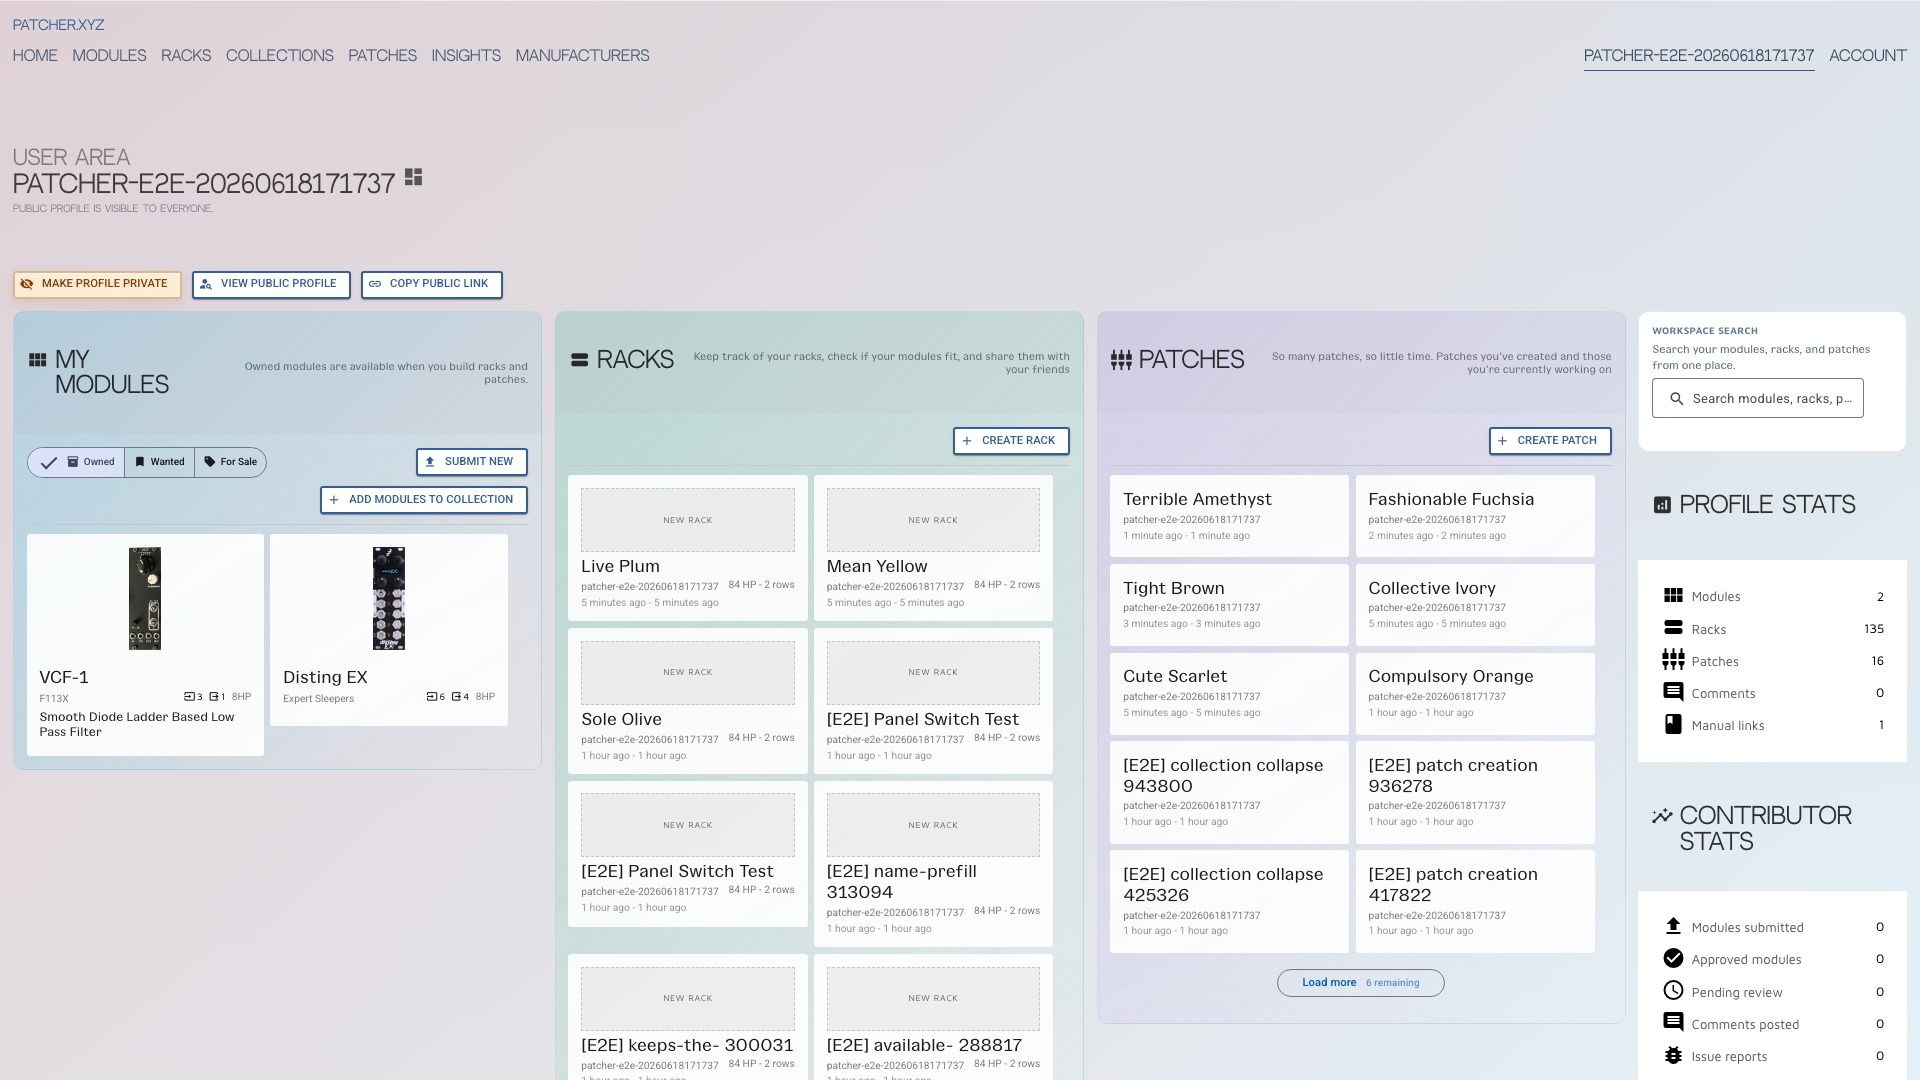
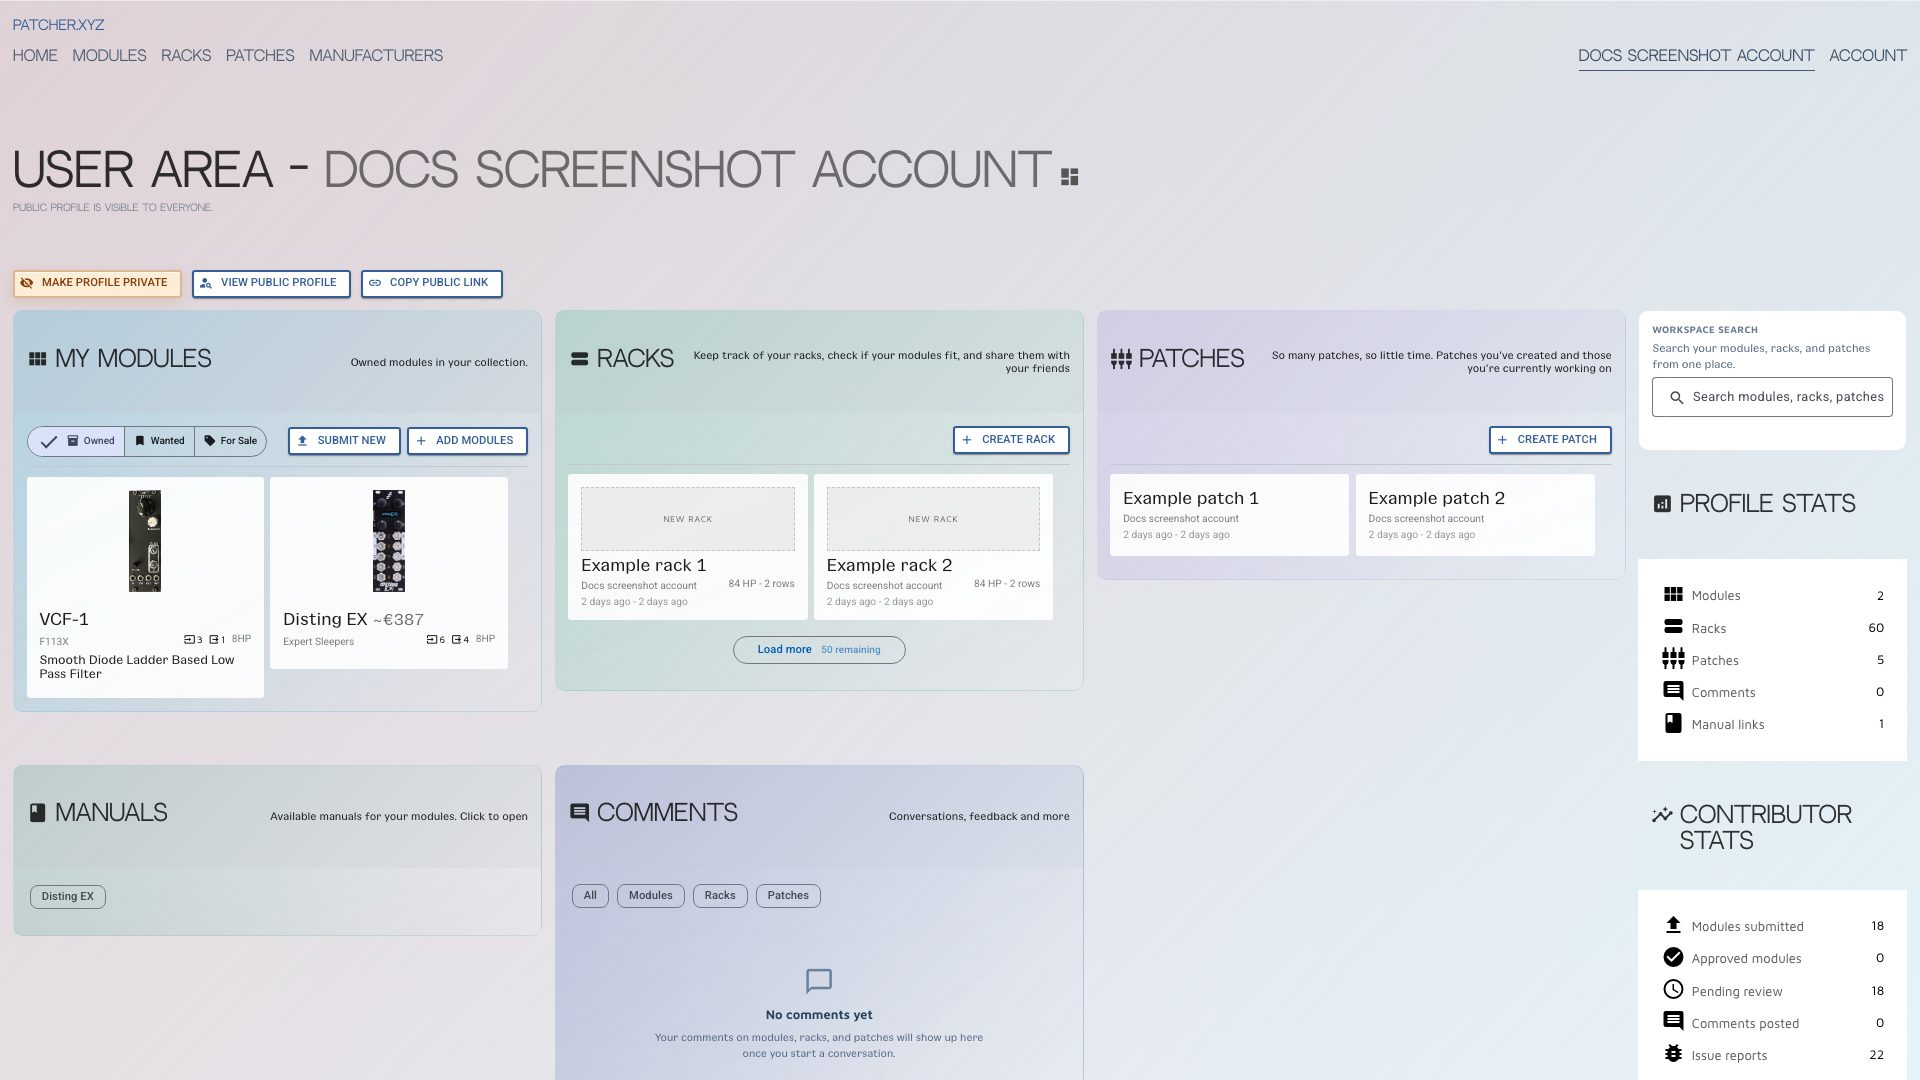
fix(e2e): repair user-area docs screenshot sanitisation bugs
- fixture-retention visibility checks now walk the ancestor chain since
  hide attributes can land on a wrapper (lib-clean-card) rather than the
  card element, which previously misjudged real non-fixture cards as hidden
- readCurrentAccountLabel now targets the correct app-wide-shell-toolbar
  tag (app-toolbar does not exist) and reads the scoped .title-sub span
  instead of the polluted whole-h1 text
- validateUserArea heading check now matches the live hyphen/whitespace
  layout via a locator instead of getByRole name matching, and residual
  [E2E]/patcher-e2e- checks use countVisibleTextMatches so hidden fixture
  DOM nodes (already display:none) are not treated as leaks

user-area capture now passes end-to-end and was manually reviewed.

(cherry picked from commit 682fe06ee575b6385a39a9686c50dff9f6ba3934)

diff --git a/e2e/screenshots/sanitisation.util.ts b/e2e/screenshots/sanitisation.util.ts
@@ -176,19 +176,40 @@ export async function applyDocsScreenshotSanitisation(
       }
     };
 
+    // The fixture-hide loops above may set config.hideAttribute on an
+    // ancestor wrapper (e.g. lib-clean-card) rather than on the card element
+    // itself, since `.closest(fixtureHideSelector)` can match a wrapper that
+    // appears earlier in the same querySelectorAll pass. Detecting "is this
+    // card hidden" must therefore walk the same self-to-container chain that
+    // unhideChain uses to remove the attribute, not just check the card
+    // element directly.
+    const isHiddenInChain = (start: Element, container: Element): boolean => {
+      let node: Element | null = start;
+      while (node) {
+        if (node.hasAttribute(config.hideAttribute)) {
+          return true;
+        }
+        if (node === container) {
+          break;
+        }
+        node = node.parentElement;
+      }
+      return false;
+    };
+
     for (const section of config.fixtureRetention) {
       const maxCards = section.maxCards ?? 2;
       for (const container of document.querySelectorAll(section.containerSelector)) {
         const cards = Array.from(container.querySelectorAll(section.cardSelector));
         const hasNonFixtureVisibleCard = cards.some(
-          card => isVisible(card) && !card.hasAttribute(config.hideAttribute)
+          card => isVisible(card) && !isHiddenInChain(card, container)
         );
         if (hasNonFixtureVisibleCard) {
           continue;
         }
 
         const retainedCards = cards
-          .filter(card => card.hasAttribute(config.hideAttribute))
+          .filter(card => isHiddenInChain(card, container))
           .slice(0, maxCards);
 
         retainedCards.forEach((card, index) => {
@@ -232,9 +253,20 @@ export async function applyDocsScreenshotSanitisation(
 
 async function readCurrentAccountLabel(page: Page): Promise<string | null> {
   return page.evaluate(() => {
-    const navLabel = document.querySelector('app-toolbar a[href$="/user/area"]')?.textContent?.trim();
+    const navLabel = document.querySelector('app-wide-shell-toolbar a[href$="/user/area"]')?.textContent?.trim();
     if (navLabel) {
       return navLabel;
+    }
+
+    // The "User area" heading renders its username in a dedicated
+    // `.title-sub` span, but the enclosing <h1> also contains the page
+    // icon ligature text and (when public) an inline description, so
+    // reading textContent off the whole h1 pulls in unrelated text.
+    // Prefer the scoped span; only fall back to whole-heading parsing
+    // (best-effort, may include trailing unrelated text) if it's absent.
+    const titleSub = document.querySelector('h1 .title-sub')?.textContent?.trim();
+    if (titleSub) {
+      return titleSub;
     }
 
     const heading = Array.from(document.querySelectorAll('h1'))

diff --git a/e2e/screenshots/auth-major-area-screenshots.spec.ts b/e2e/screenshots/auth-major-area-screenshots.spec.ts
@@ -566,8 +566,15 @@ async function validateUserArea(page: Page): Promise<void> {
     );
   }
 
-  await expect(page.getByRole('heading', {name: /USER AREA — Docs screenshot account/i}).first()).toBeVisible({timeout: 10_000});
-  await expect(page.locator('text=/\\[E2E\\]/i')).toHaveCount(0);
+  await expect(page.locator('h1', {hasText: /USER AREA\s*-\s*Docs screenshot account/i}).first()).toBeVisible({timeout: 10_000});
+  await expect.poll(
+    () => countVisibleTextMatches(page, /patcher-e2e-/i),
+    {timeout: 10_000}
+  ).toBe(0);
+  await expect.poll(
+    () => countVisibleTextMatches(page, /\[E2E\]/i),
+    {timeout: 10_000}
+  ).toBe(0);
 }
 
 async function prepareAccount(page: Page): Promise<void> {

diff --git a/internaldocs/workflow/plans/docs-screenshot-pipeline-repair.md b/internaldocs/workflow/plans/docs-screenshot-pipeline-repair.md
@@ -47,6 +47,14 @@ Repair the in-repo Patcher docs screenshot pipeline so the seven docs-facing cap
 - 2026-07-23 — Capture unblock: After credentials were populated, the first gate exposed two runner bugs before images could be produced: `generate-env.js` needed the repo's existing non-secret Patcher Supabase URL default when `.env` supplies only the anon key, and Playwright target selection needed config-owned `testMatch` plus `.*captures <title>$` grep because explicit file paths and fully anchored titles found zero tests.
 - 2026-07-23 — Home gate hardening: Removed the home screenshot helper's production-incompatible `window.ng` component mutation/readiness path. The gate now waits on the production-rendered home hero `lib-graph` DOM and writes a blocked marker if the existing production default content cannot render a connected graph.
 - 2026-07-23 — Patch-details fallback: Coordinator approved a no-mutation fallback for gate 3. The selector now keeps owned rich patches as first preference, then deterministically selects an existing public patch with `public=true`, `public_id IS NOT NULL`, at least 1 connection, and at least 2 modules, ranked by connections desc, modules desc, updated desc, then id asc.
+- 2026-07-24 — User-area fixture-retention fallback: Coordinator approved a capture-time-only fallback (`sanitisation.util.ts` `USER_AREA_FIXTURE_RETENTION` path) so an otherwise-empty required rack/patch/module column retains at most 2 existing `[E2E]` fixture cards and rewrites their visible titles to deterministic labels (`Example rack N`/`Example patch N`/`Example module N`) instead of publishing an empty column. No backend/account rows are created or mutated; only in-browser DOM text/attributes are changed for the capture.
+- 2026-07-24 — User-area harness bug fixes (found while validating the fallback against the real "Poly0" test account, which has genuine non-fixture data rather than only fixture rows):
+  1. **Ancestor-attribute hidden-detection bug**: the existing fixture-hide loop's `element.closest(fixtureHideSelector)` places `data-docs-screenshot-hide="true"` on the nearest matching ancestor wrapper (e.g. `lib-clean-card`), which can be several DOM levels above the actual card element (`app-rack-micro`/`app-patch-micro`). The new fixture-retention logic was checking `card.hasAttribute(config.hideAttribute)` directly on the card element, so cards hidden via an ancestor were never recognised as hidden — this made real non-fixture cards register as "not visible" and blocked the gate even though 60 racks / 5 patches existed. Fixed by adding an `isHiddenInChain(start, container)` helper (mirrors the existing `unhideChain` ancestor walk) and using it for all card-visibility checks in the retention loop.
+  2. **Stale `app-toolbar` selector**: `readCurrentAccountLabel()` first tried `app-toolbar a[href$="/user/area"]` to read the logged-in username, but no `app-toolbar` component exists in the app (the real component/tag is `app-wide-shell-toolbar`, confirmed in `app.component.html`). The selector silently matched nothing and fell through to a whole-`<h1>`-text-parsing fallback.
+  3. **Polluted `<h1>` fallback text**: the user-area `<h1>` (`hero-content-card` template) concatenates `.title-main` + `.title-separator` + `.title-sub` (the actual username) + an optional `.title-inline-description` + an icon ligature all in one element, so `h1.textContent` produced strings like `"User area-Poly0Public profile is visible to everyone.dashboard"` instead of the clean username. Fixed by correcting the toolbar selector to `app-wide-shell-toolbar a[href$="/user/area"]` and adding a `h1 .title-sub` targeted read (checked before the old whole-`<h1>` fallback, which is retained as a last resort with an explanatory comment).
+  4. **Heading-assertion dash/whitespace mismatch**: `validateUserArea`'s heading check used an em dash (`USER AREA — Docs screenshot account`) and `getByRole('heading', {name})`, but the live template renders a plain hyphen with no surrounding spaces and Playwright's accessible-name computation inserts newlines between the `<h1>`'s child spans. Fixed by matching a flexible `\s*-\s*` separator via a `page.locator('h1', {hasText: ...})` check instead of `getByRole` name matching.
+  5. **DOM-presence vs. visible-content check for `[E2E]` text**: after the retention fix, up to ~2 fixture patch cards beyond the retained set remain in the DOM with `display:none` (correctly hidden from the screenshot) but still matched a raw `page.locator('text=/\\[E2E\\]/i')` DOM-presence check, which counts hidden elements too. Changed `validateUserArea`'s residual-`[E2E]`/`patcher-e2e-` checks to the existing `countVisibleTextMatches` helper (already used by `assertDocsSanitisation` for other targets), so the assertion matches what is actually visible in the published capture.
+- 2026-07-24 — User-area validation: `node --test e2e/screenshots/__tests__/*.test.mjs` passed 6/6 after the `isHiddenInChain` fix. `pnpm test:e2e:screenshots -- --target=user-area` passed end-to-end (1 passed) after all fixes above. In-session image review of `08-user-area.jpg` confirmed: nav shows only Home/Modules/Racks/Patches/Manufacturers plus "Docs screenshot account"/"Account" (no raw username, email, UUID, or patcher-e2e handle); heading reads "USER AREA - DOCS SCREENSHOT ACCOUNT" with public-profile note, no tour/discovery overlays; Modules column shows 2 real non-fixture module cards (VCF-1, Disting EX — product data only, no identifying account info); Racks column shows 2 retained fixture cards relabeled "Example rack 1"/"Example rack 2" attributed to "Docs screenshot account"; Patches column shows 2 retained fixture cards relabeled "Example patch 1"/"Example patch 2", same attribution; Profile/Contributor stats panels show only numeric counts, no identifiers. Verdict: pass.
 
 ## Manual screenshot observations
 
@@ -54,5 +62,5 @@ Repair the in-repo Patcher docs screenshot pipeline so the seven docs-facing cap
 - `02-modules.jpg` (`modules`) — nav: production header shows Modules active with Home/Racks/Patches/Manufacturers available and no hidden local-only nav. Identity: unauthenticated shell shows Log in and Sign up only; no user badge or E2E labels are visible. Content/framing: module browser fills the viewport with filter rail, search controls, and multiple real module cards with thumbnails, HP, prices, tags, and descriptions; no loading skeletons or fixture cards are present. Verdict: pass.
 - `05-patch-details.jpg` (`patch-details`) — nav: production header shows Patches active with Home/Modules/Racks/Manufacturers visible and no local-only Collections/Insights/Marketplace/Cool UI. Identity: authenticated docs account shell is present in the top right, but no E2E account labels are visible. Content/framing: after owned-rich selection failed read-only, fallback selected existing public patch `11` (`Hyperdist`) with 43 connections and 6 modules; the detail page shows public patch details, statistics, module list, graph, and connection cards without edit controls or loading overlays. Verdict: pass via approved public read-only fallback.
 - `06-racks.jpg` (`racks`) — nav: production header shows Racks active with Home/Modules/Patches/Manufacturers available and no hidden local-only nav. Identity: unauthenticated shell shows Log in and Sign up; no user identity or E2E labels are visible. Content/framing: rack browser fills the viewport with filter/search rail and many real rack cards, including rack preview thumbnails, names, owners, HP/row metadata, and update ages; no loading overlays or fixture-owned cards are visible. Verdict: pass.
-- `08-user-area.jpg` (`user-area`) — blocked after sanitisation. Evidence marker `src/assets/screenshots/major-area-screenshots/.blocked/user-area.txt` reports the page has 2 non-fixture module cards but 0 non-fixture rack cards and 0 non-fixture patch cards after `[E2E]` fixture-owned cards are hidden. The failure screenshot confirms the remaining visible user-area frame is clean of `[E2E]` text and transient discovery tips, but there is not enough meaningful non-E2E rack/patch content to publish. Verdict: blocked; no backend/account data was seeded or mutated.
+- `08-user-area.jpg` (`user-area`) — nav: production header shows only Home/Modules/Racks/Patches/Manufacturers plus authenticated right-side "Docs screenshot account"/"Account" links; no raw username, email, UUID, or `patcher-e2e-` handle visible. Identity: heading reads "USER AREA - DOCS SCREENSHOT ACCOUNT" with the public-profile note beneath; the real account username is fully replaced. Content/framing: Modules column shows 2 real non-fixture module cards (VCF-1, Disting EX); Racks and Patches columns each retain 2 `[E2E]` fixture cards relabeled to deterministic "Example rack N"/"Example patch N" titles attributed to "Docs screenshot account", with no residual visible `[E2E]` or `patcher-e2e-` text anywhere in the capture; Manuals/Comments/Profile stats/Contributor stats panels show only counts and product names, no identifiers. Verdict: pass via coordinator-approved capture-time fixture-retention fallback.
 - 2026-07-23 rerun — Re-ran the exact gate order from the top after credential confirmation. `home` and `modules` recaptured and passed the same nav/identity/content/framing criteria under in-session image review; `patch-details` produced the same real `.blocked/patch-details.txt` evidence and stopped the sequence again.
